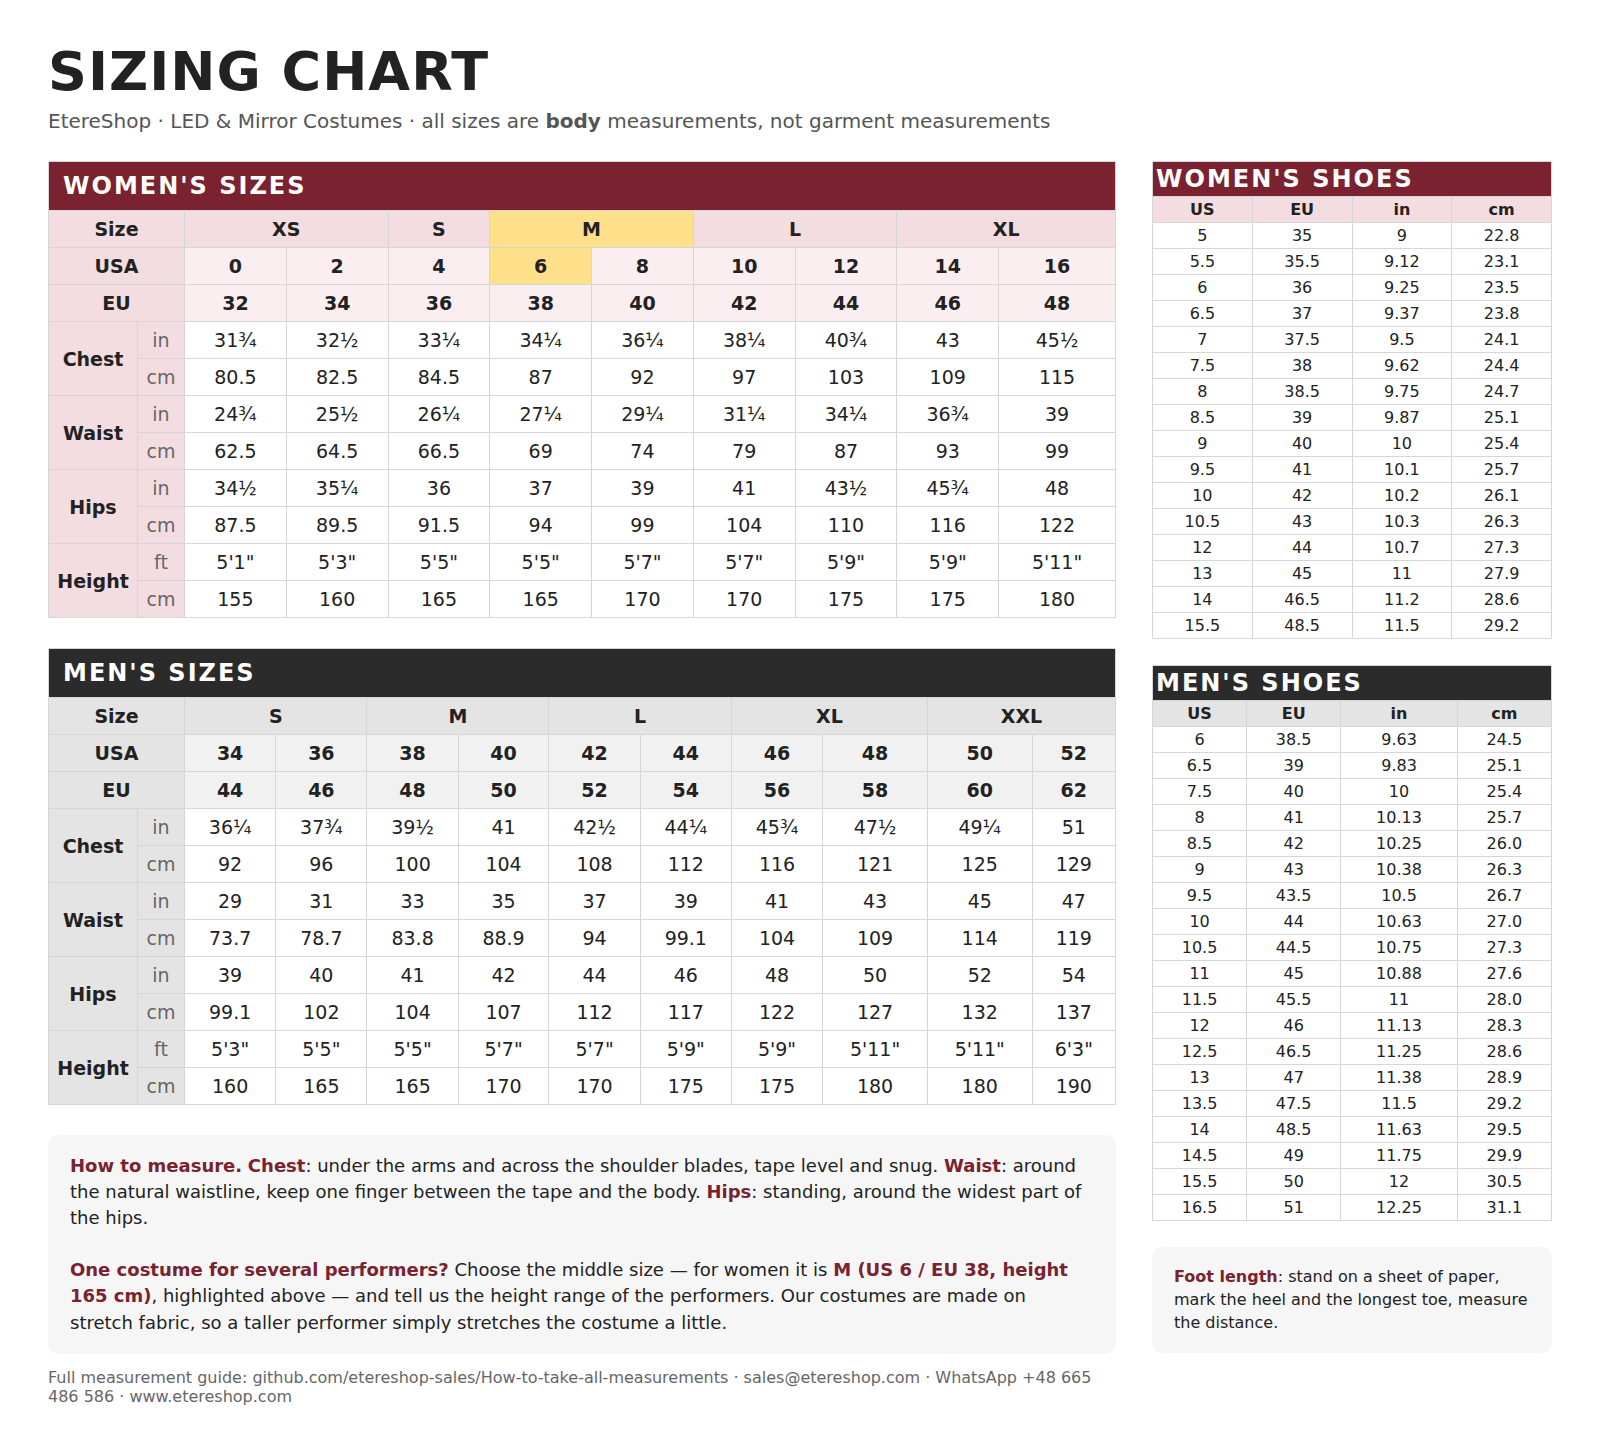
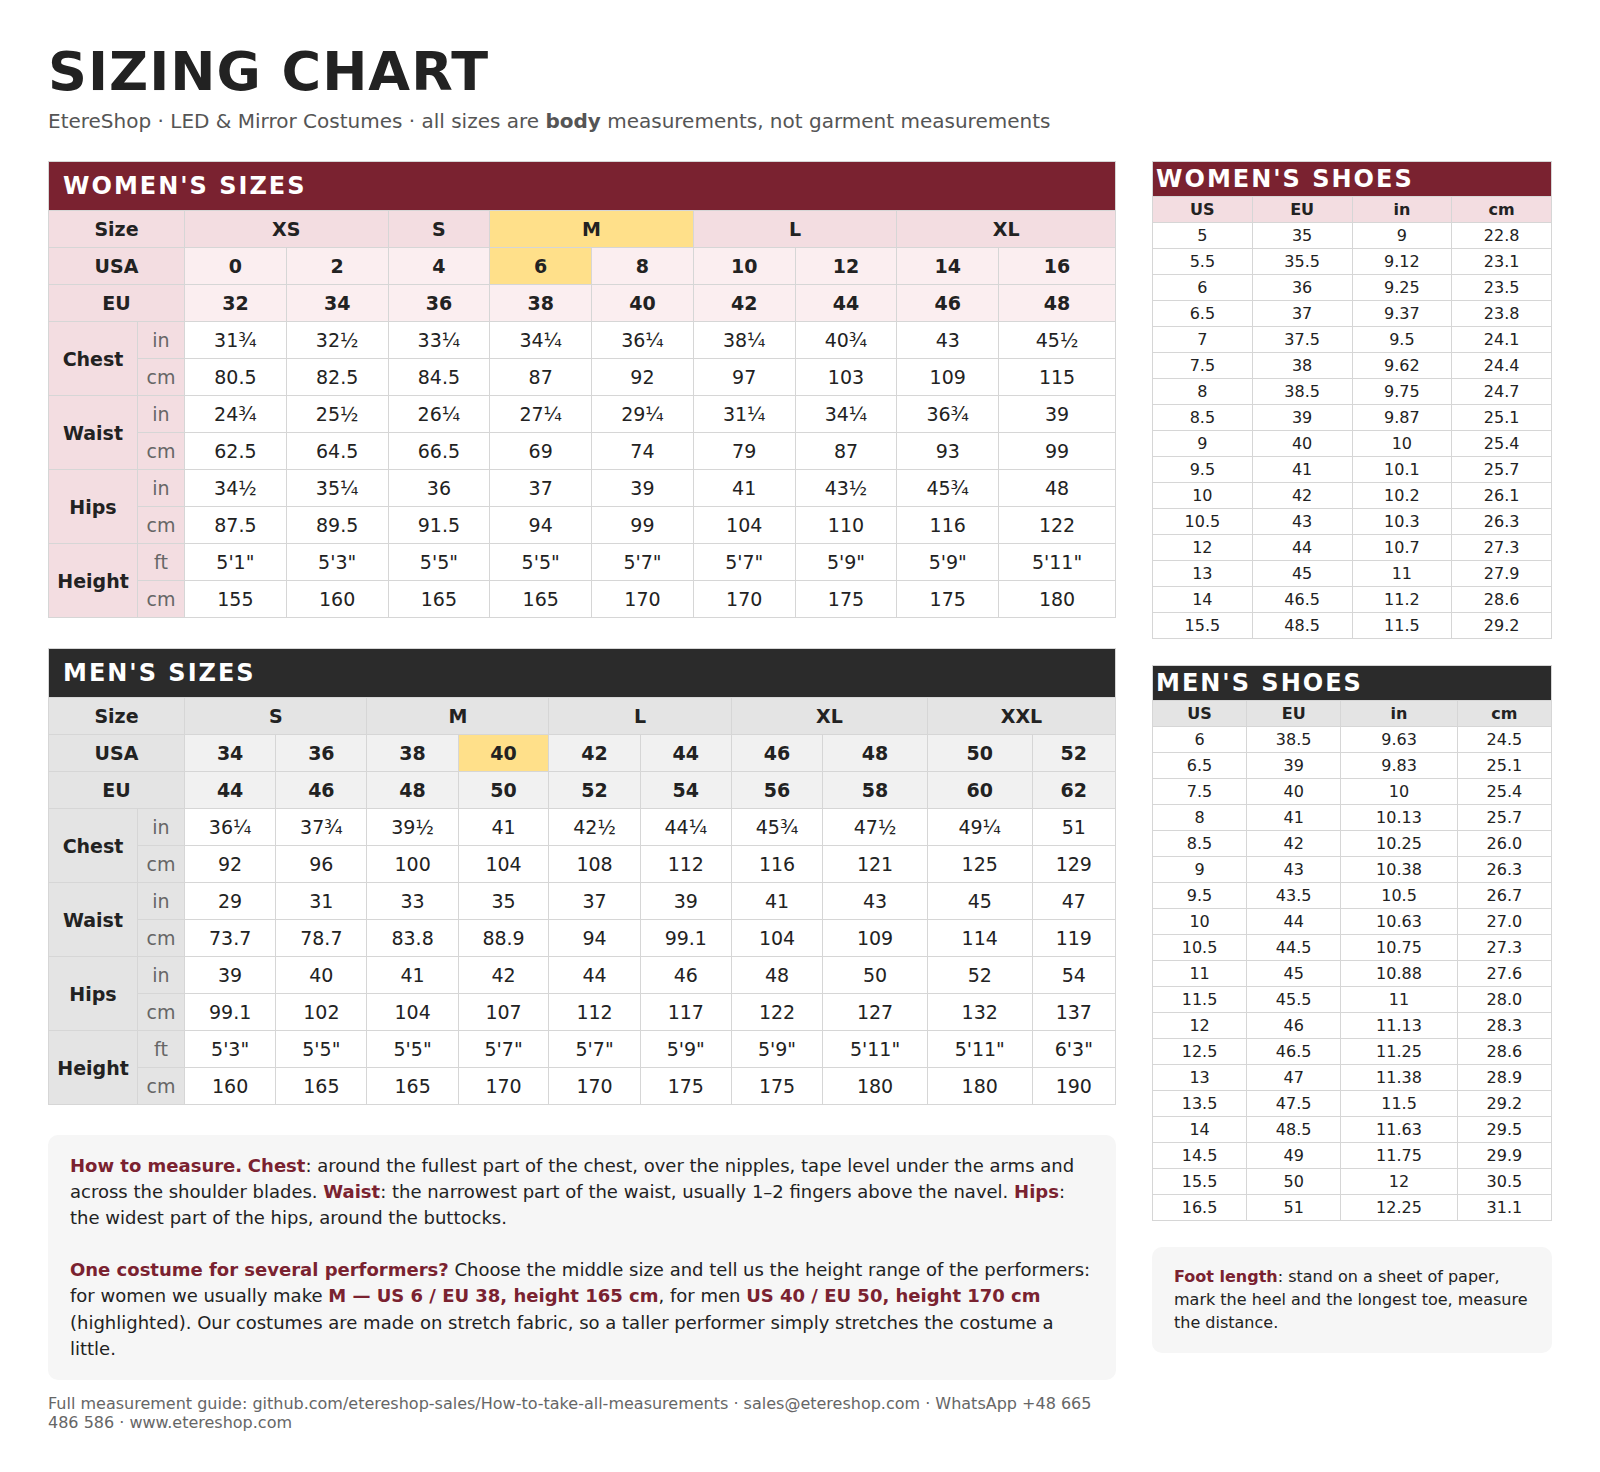
Sizing chart: clearer chest/waist/hips instructions, default men's size EU 50

diff --git a/README.md b/README.md
@@ -14,12 +14,18 @@ If you prefer a standard size instead of individual measurements, use the chart 
 
 ![EtereShop sizing chart: women's and men's sizes (US / EU, chest, waist, hips, height) and shoe sizes](images/sizing-chart.png)
 
+### How to measure for the chart
+
+- **Chest** — around the fullest part of the chest, over the nipples. Keep the tape level under the arms and across the shoulder blades.
+- **Waist** — the narrowest part of the waist, usually 1–2 fingers above the navel.
+- **Hips** — the widest part of the hips, around the buttocks.
+
 ### One costume for several performers?
 
 If the costume will be worn by different people, you don't need to send everyone's measurements. Just choose the **middle size** and tell us the **height range** of the performers:
 
 - **Women:** size **M — US 6 / EU 38**, height **165 cm (5'5")**. This size fits the largest number of people.
-- **Men:** size **M — US 38 / EU 48**, height **165–170 cm**.
+- **Men:** we usually make **US 40 / EU 50**, height **170 cm (5'7")**.
 
 Our costumes are made on stretch fabric, so if a performer is a little taller, the costume simply stretches. If one performer is much taller or shorter than the others, please mention it.
 
